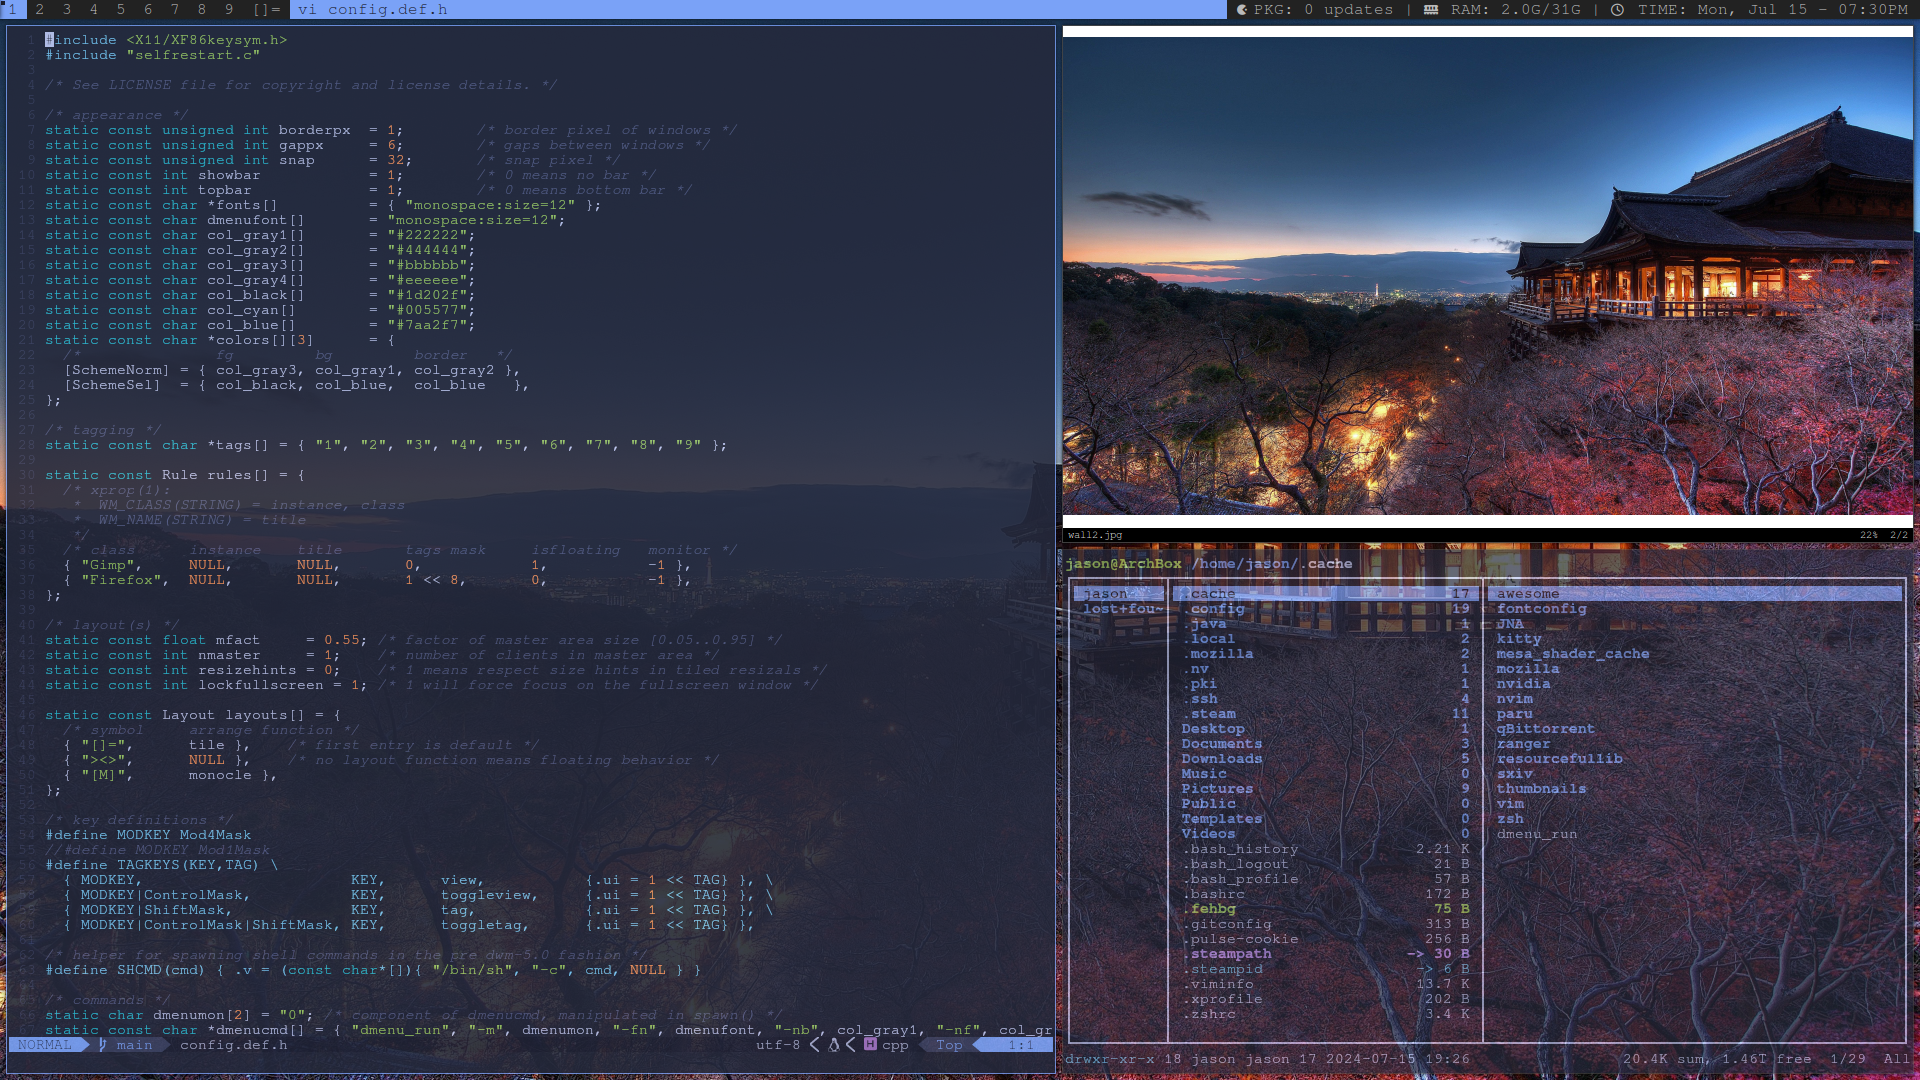
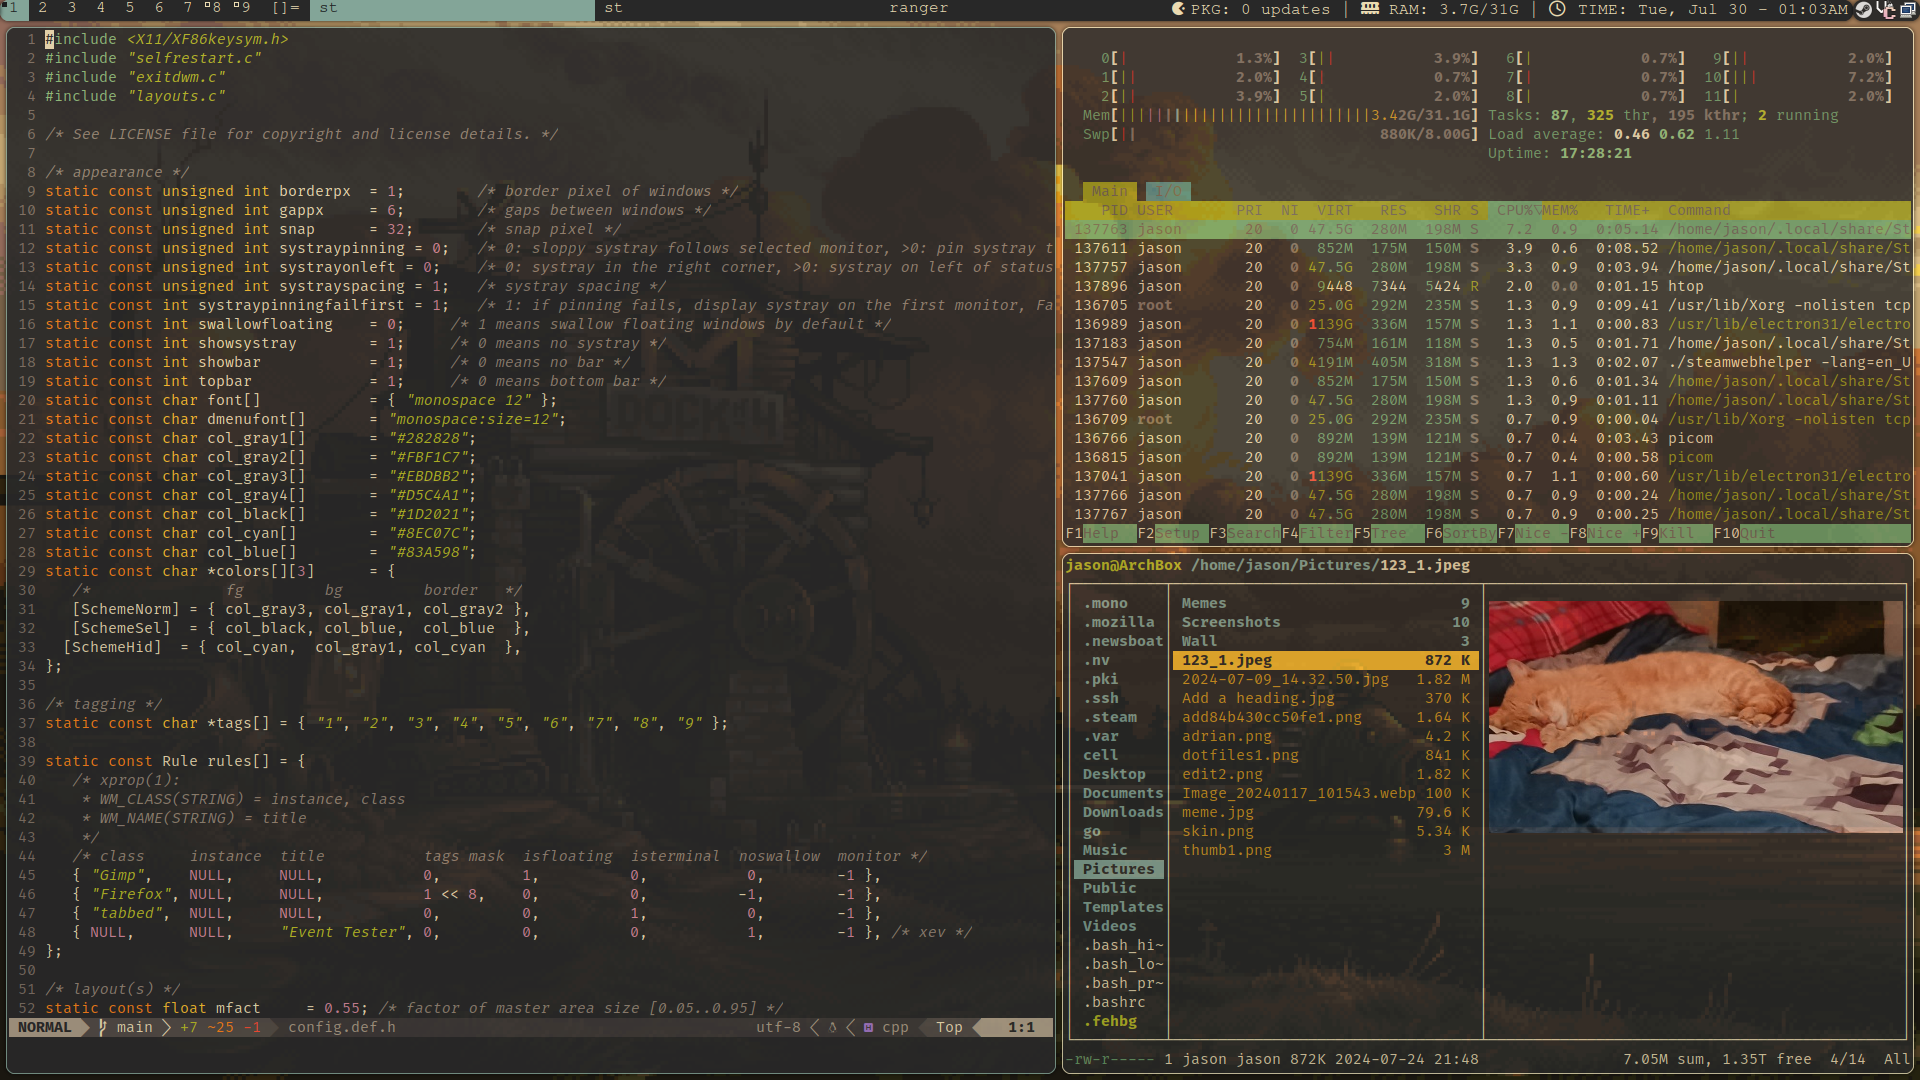
Changed colorscheme to gruvbox
[CONFIG]
- Changed colors to be more in-line with gruvbox instead of tokyonight

[SCREENSHOT]
- Replaced the picture used in desktop.png

diff --git a/config.def.h b/config.def.h
@@ -19,13 +19,13 @@ static const int showbar            = 1;     /* 0 means no bar */
 static const int topbar             = 1;     /* 0 means bottom bar */
 static const char font[]            = { "monospace 12" };
 static const char dmenufont[]       = "monospace:size=12";
-static const char col_gray1[]       = "#222222";
-static const char col_gray2[]       = "#444444";
-static const char col_gray3[]       = "#bbbbbb";
-static const char col_gray4[]       = "#eeeeee";
-static const char col_black[]       = "#1d202f";
-static const char col_cyan[]        = "#005577";
-static const char col_blue[]        = "#7aa2f7";
+static const char col_gray1[]       = "#282828";
+static const char col_gray2[]       = "#FBF1C7";
+static const char col_gray3[]       = "#EBDBB2";
+static const char col_gray4[]       = "#D5C4A1";
+static const char col_black[]       = "#1D2021";
+static const char col_cyan[]        = "#8EC07C";
+static const char col_blue[]        = "#83A598";
 static const char *colors[][3]      = {
 	/*               fg         bg         border   */
 	[SchemeNorm] = { col_gray3, col_gray1, col_gray2 },

diff --git a/config.h b/config.h
@@ -19,13 +19,13 @@ static const int showbar            = 1;     /* 0 means no bar */
 static const int topbar             = 1;     /* 0 means bottom bar */
 static const char font[]            = { "monospace 12" };
 static const char dmenufont[]       = "monospace:size=12";
-static const char col_gray1[]       = "#222222";
-static const char col_gray2[]       = "#444444";
-static const char col_gray3[]       = "#bbbbbb";
-static const char col_gray4[]       = "#eeeeee";
-static const char col_black[]       = "#1d202f";
-static const char col_cyan[]        = "#005577";
-static const char col_blue[]        = "#7aa2f7";
+static const char col_gray1[]       = "#282828";
+static const char col_gray2[]       = "#FBF1C7";
+static const char col_gray3[]       = "#EBDBB2";
+static const char col_gray4[]       = "#D5C4A1";
+static const char col_black[]       = "#1D2021";
+static const char col_cyan[]        = "#8EC07C";
+static const char col_blue[]        = "#83A598";
 static const char *colors[][3]      = {
 	/*               fg         bg         border   */
 	[SchemeNorm] = { col_gray3, col_gray1, col_gray2 },
